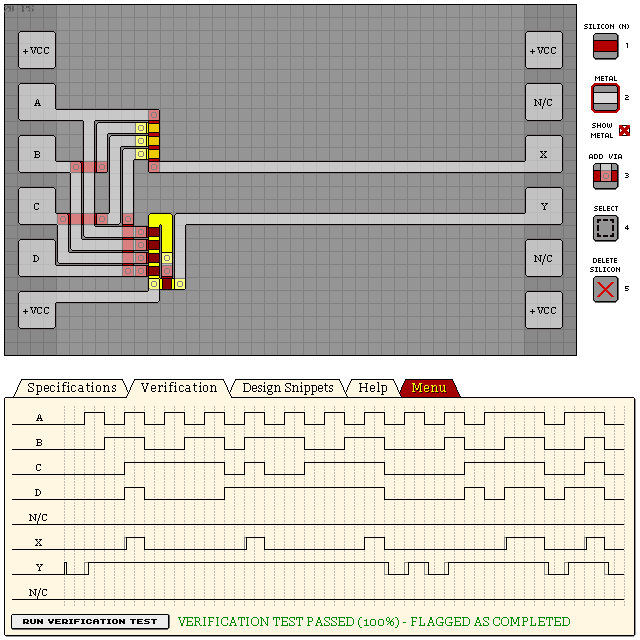
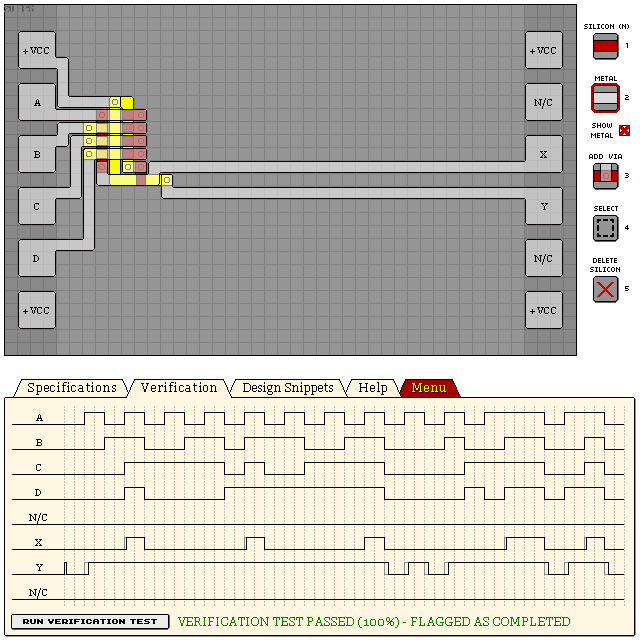
KT141AO 100% 144

Changed region(s): [[0.0625, 0.0938, 0.8438, 0.5]]

diff --git a/levels/03 KT141AO - 4-INPUT AND-OR GATE.md b/levels/03 KT141AO - 4-INPUT AND-OR GATE.md
@@ -1,16 +1,15 @@
 # KT141AO - 4-INPUT AND/OR GATE
 
 - Verification: Passed (100%)
-- Design Score: 184
+- Design Score: 144
 
 ```
[6 lines of base64/hex data omitted]
-KuXK4pnXX+mxb5MrBSmlxbk23Vtq81mlnWbJnFDo+xwpG081Wse6
[5 lines of base64/hex data omitted]
+mFDoOrpNj/srqpyf5bT1pPzLTihr/EnQj9R+4l0lFLoJ3dJIkeMJ5zrHaQ==
 ```
 
 ![03 KT141AO - 4-INPUT AND-OR GATE](./assets/03.png)
